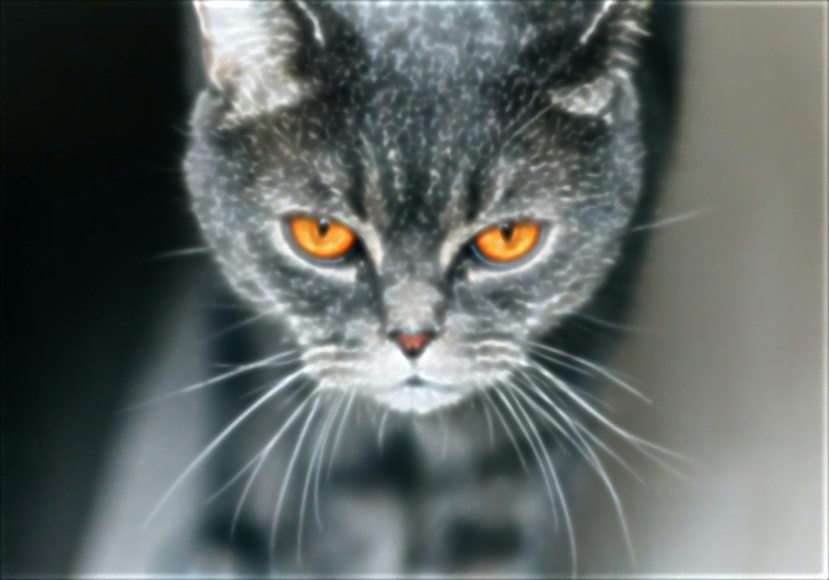
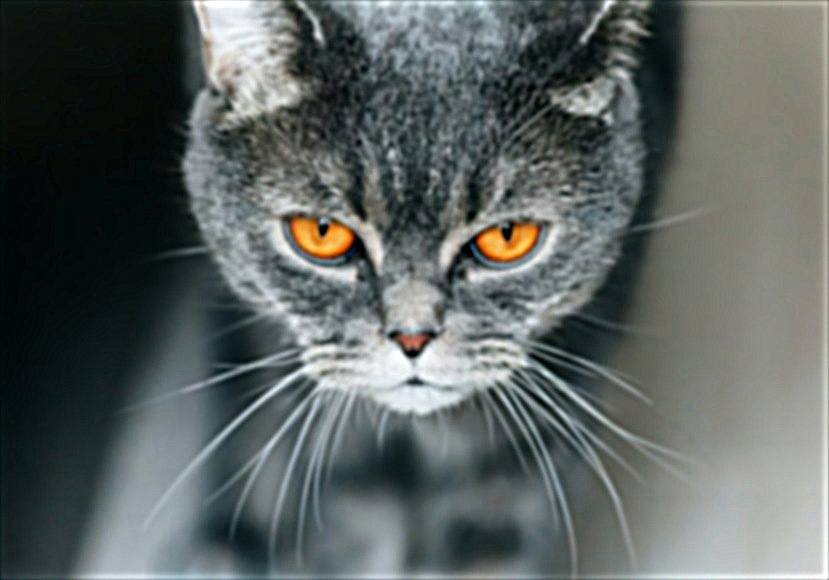
unsharp mask

diff --git a/src/components/projects/proj02/Proj02.js b/src/components/projects/proj02/Proj02.js
@@ -22,10 +22,6 @@ import dog_binarized from '../../../static/proj02/1-2/dog_binarized.png';
 
 import taj from '../../../static/proj02/2-1/taj.jpg';
 import moon from '../../../static/proj02/2-1/moon.png';
-import blurred_taj from '../../../static/proj02/2-1/blurred_taj.jpg';
-import blurred_moon from '../../../static/proj02/2-1/blurred_moon.png';
-import high_frequency_taj from '../../../static/proj02/2-1/high_frequency_taj.jpg';
-import high_frequency_moon from '../../../static/proj02/2-1/high_frequency_moon.png';
 import sharpened_taj from '../../../static/proj02/2-1/sharpened_taj.jpg';
 import sharpened_moon from '../../../static/proj02/2-1/sharpened_moon.png';
 import cat from '../../../static/proj02/2-1/cat.jpg';
@@ -210,12 +206,8 @@ const Proj02 = () => {
 
     const data_2_1_1 = [
         {image: taj, caption: "Original Taj Mahal"},
-        {image: blurred_taj, caption: "Blurred Taj Mahal"},
-        {image: high_frequency_taj, caption: "High frequency features of the Taj Mahal"},
         {image: sharpened_taj, caption: "Sharpened Taj Mahal"},
         {image: moon, caption: "Original Moon"},
-        {image: blurred_moon, caption: "Blurred Moon"},
-        {image: high_frequency_moon, caption: "High frequency features of the Moon (zoom in)"},
         {image: sharpened_moon, caption: "Sharpened Moon"}
     ]
 
@@ -489,7 +481,7 @@ const Proj02 = () => {
                     img_blurred. To extract the high-frequency features, we calculate high_freq_img = img - img_blurred. To sharpen the original, we calculate: img_sharpened = img + alpha * high_freq_img, where
                     alpha is some real constant. We use a Gaussian kernel of size 15x15 with sigma = 15 / 6.0. We set alpha = 3.0. 
                 </p>
-                <div className="image-table" style={{ display: 'grid', gridTemplateColumns: 'repeat(4, 1fr)', gap: '20px', marginTop: '40px' }}>
+                <div className="image-table" style={{ display: 'grid', gridTemplateColumns: 'repeat(2, 1fr)', gap: '20px', marginTop: '40px' }}>
                     {data_2_1_1.map((item, index) => (
                         <div key={index} style={{ textAlign: 'center' }}>
                         <img src={item.image} alt={`image-${index}`} style={{ width: '100%', height: 'auto', maxWidth: '300px' }} />
